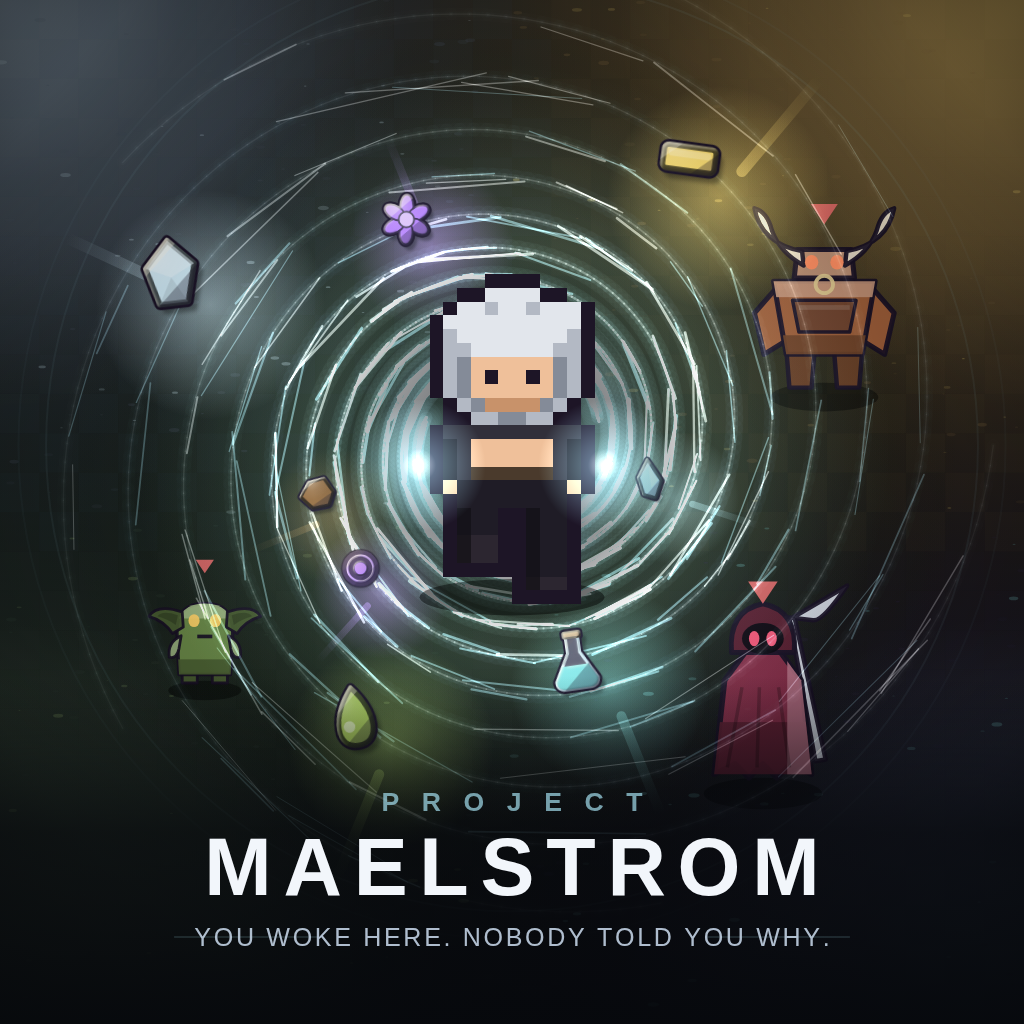
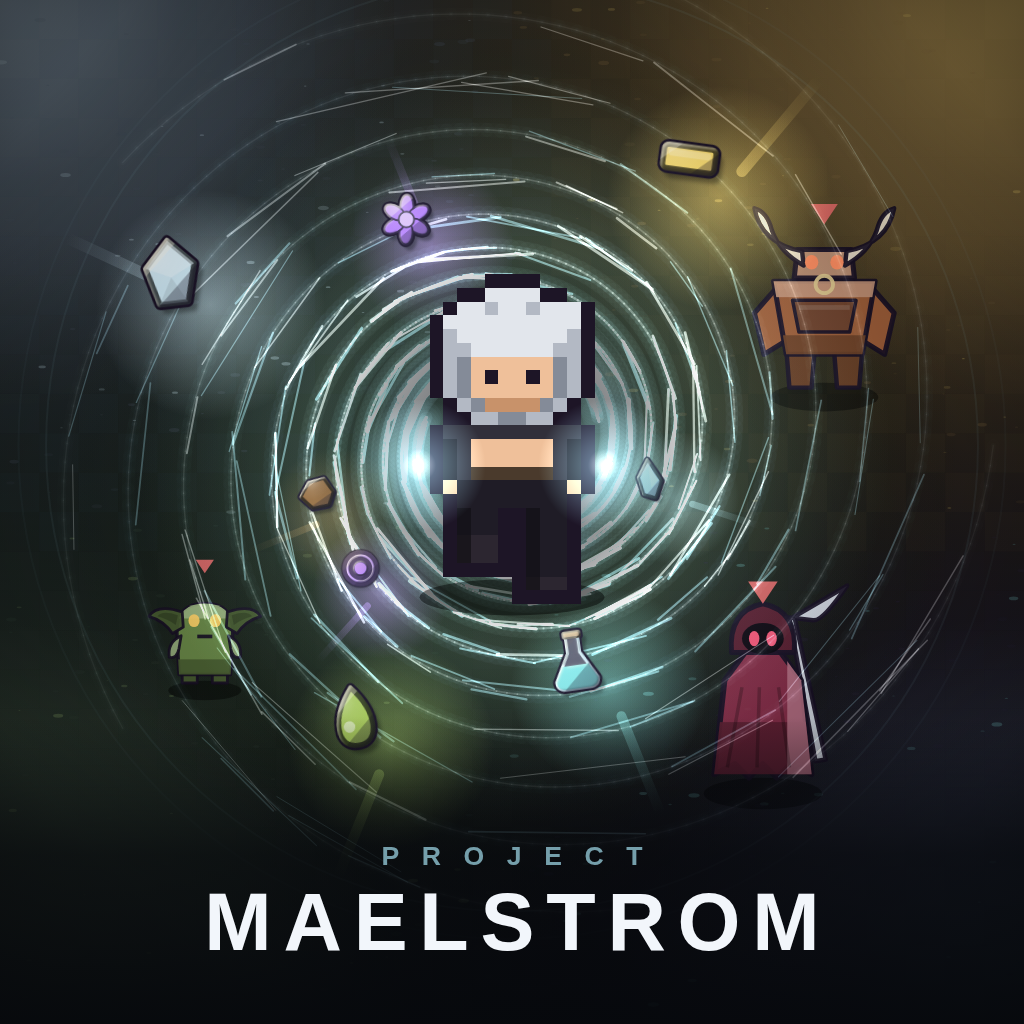
Drop the tagline from the cover
A cover earns a tagline once the game has settled on what it is promising.
Until then it is a third line of type competing with the only two words
that have to survive being shown at the size a cover is actually seen.

Two lines also let the plate start lower and run shorter, so less of the
maelstrom is buried under it, and the name sits where the eye already
goes.

Claude-Session: https://claude.ai/code/session_01BNKoTdG7zAkC51jpZW2bMi

diff --git a/tools/cover/cover.ts b/tools/cover/cover.ts
@@ -491,42 +491,36 @@ function tracked(
   }
 }
 
+/**
+ * The name, and nothing else.
+ *
+ * There was a tagline under this. A cover earns a tagline once the game has
+ * settled on what it is promising; until then it is a line of text competing
+ * with the only two words that have to be legible at the size a cover is
+ * actually seen. Two lines also let the plate sit lower and shorter, so less of
+ * the maelstrom is buried under it.
+ */
 function drawTitle(ctx: CanvasRenderingContext2D, S: number): void {
   const cx = S / 2;
 
   // A plate under the type, so the title holds against whatever is behind it.
-  const plate = ctx.createLinearGradient(0, S * 0.66, 0, S);
+  const plate = ctx.createLinearGradient(0, S * 0.7, 0, S);
   plate.addColorStop(0, 'rgba(6,8,12,0)');
   plate.addColorStop(0.45, 'rgba(6,8,12,0.72)');
   plate.addColorStop(1, 'rgba(6,8,12,0.94)');
   ctx.fillStyle = plate;
-  ctx.fillRect(0, S * 0.66, S, S * 0.34);
+  ctx.fillRect(0, S * 0.7, S, S * 0.3);
 
   ctx.textAlign = 'left';
   ctx.textBaseline = 'alphabetic';
 
   ctx.fillStyle = withAlpha(PULL, 0.72);
   ctx.font = `600 ${S * 0.026}px "Liberation Sans", "DejaVu Sans", sans-serif`;
-  tracked(ctx, 'PROJECT', cx, S * 0.792, S * 0.022);
+  tracked(ctx, 'PROJECT', cx, S * 0.845, S * 0.022);
 
   ctx.fillStyle = '#f2f6fb';
   ctx.font = `700 ${S * 0.079}px "Liberation Sans", "DejaVu Sans", sans-serif`;
-  tracked(ctx, 'MAELSTROM', cx, S * 0.874, S * 0.0115);
-
-  // Rules either side of the tagline, kept short so the line reads as one unit.
-  const ruleY = S * 0.915;
-  ctx.strokeStyle = withAlpha(PULL, 0.28);
-  ctx.lineWidth = S / 900;
-  for (const side of [-1, 1]) {
-    ctx.beginPath();
-    ctx.moveTo(cx + side * S * 0.19, ruleY);
-    ctx.lineTo(cx + side * S * 0.33, ruleY);
-    ctx.stroke();
-  }
-
-  ctx.fillStyle = 'rgba(190,205,222,0.92)';
-  ctx.font = `400 ${S * 0.0245}px "Liberation Sans", "DejaVu Sans", sans-serif`;
-  tracked(ctx, 'YOU WOKE HERE. NOBODY TOLD YOU WHY.', cx, ruleY + S * 0.009, S * 0.0026);
+  tracked(ctx, 'MAELSTROM', cx, S * 0.928, S * 0.0115);
 }
 
 export async function drawCover(canvas: HTMLCanvasElement, size: number, withTitle: boolean): Promise<void> {
